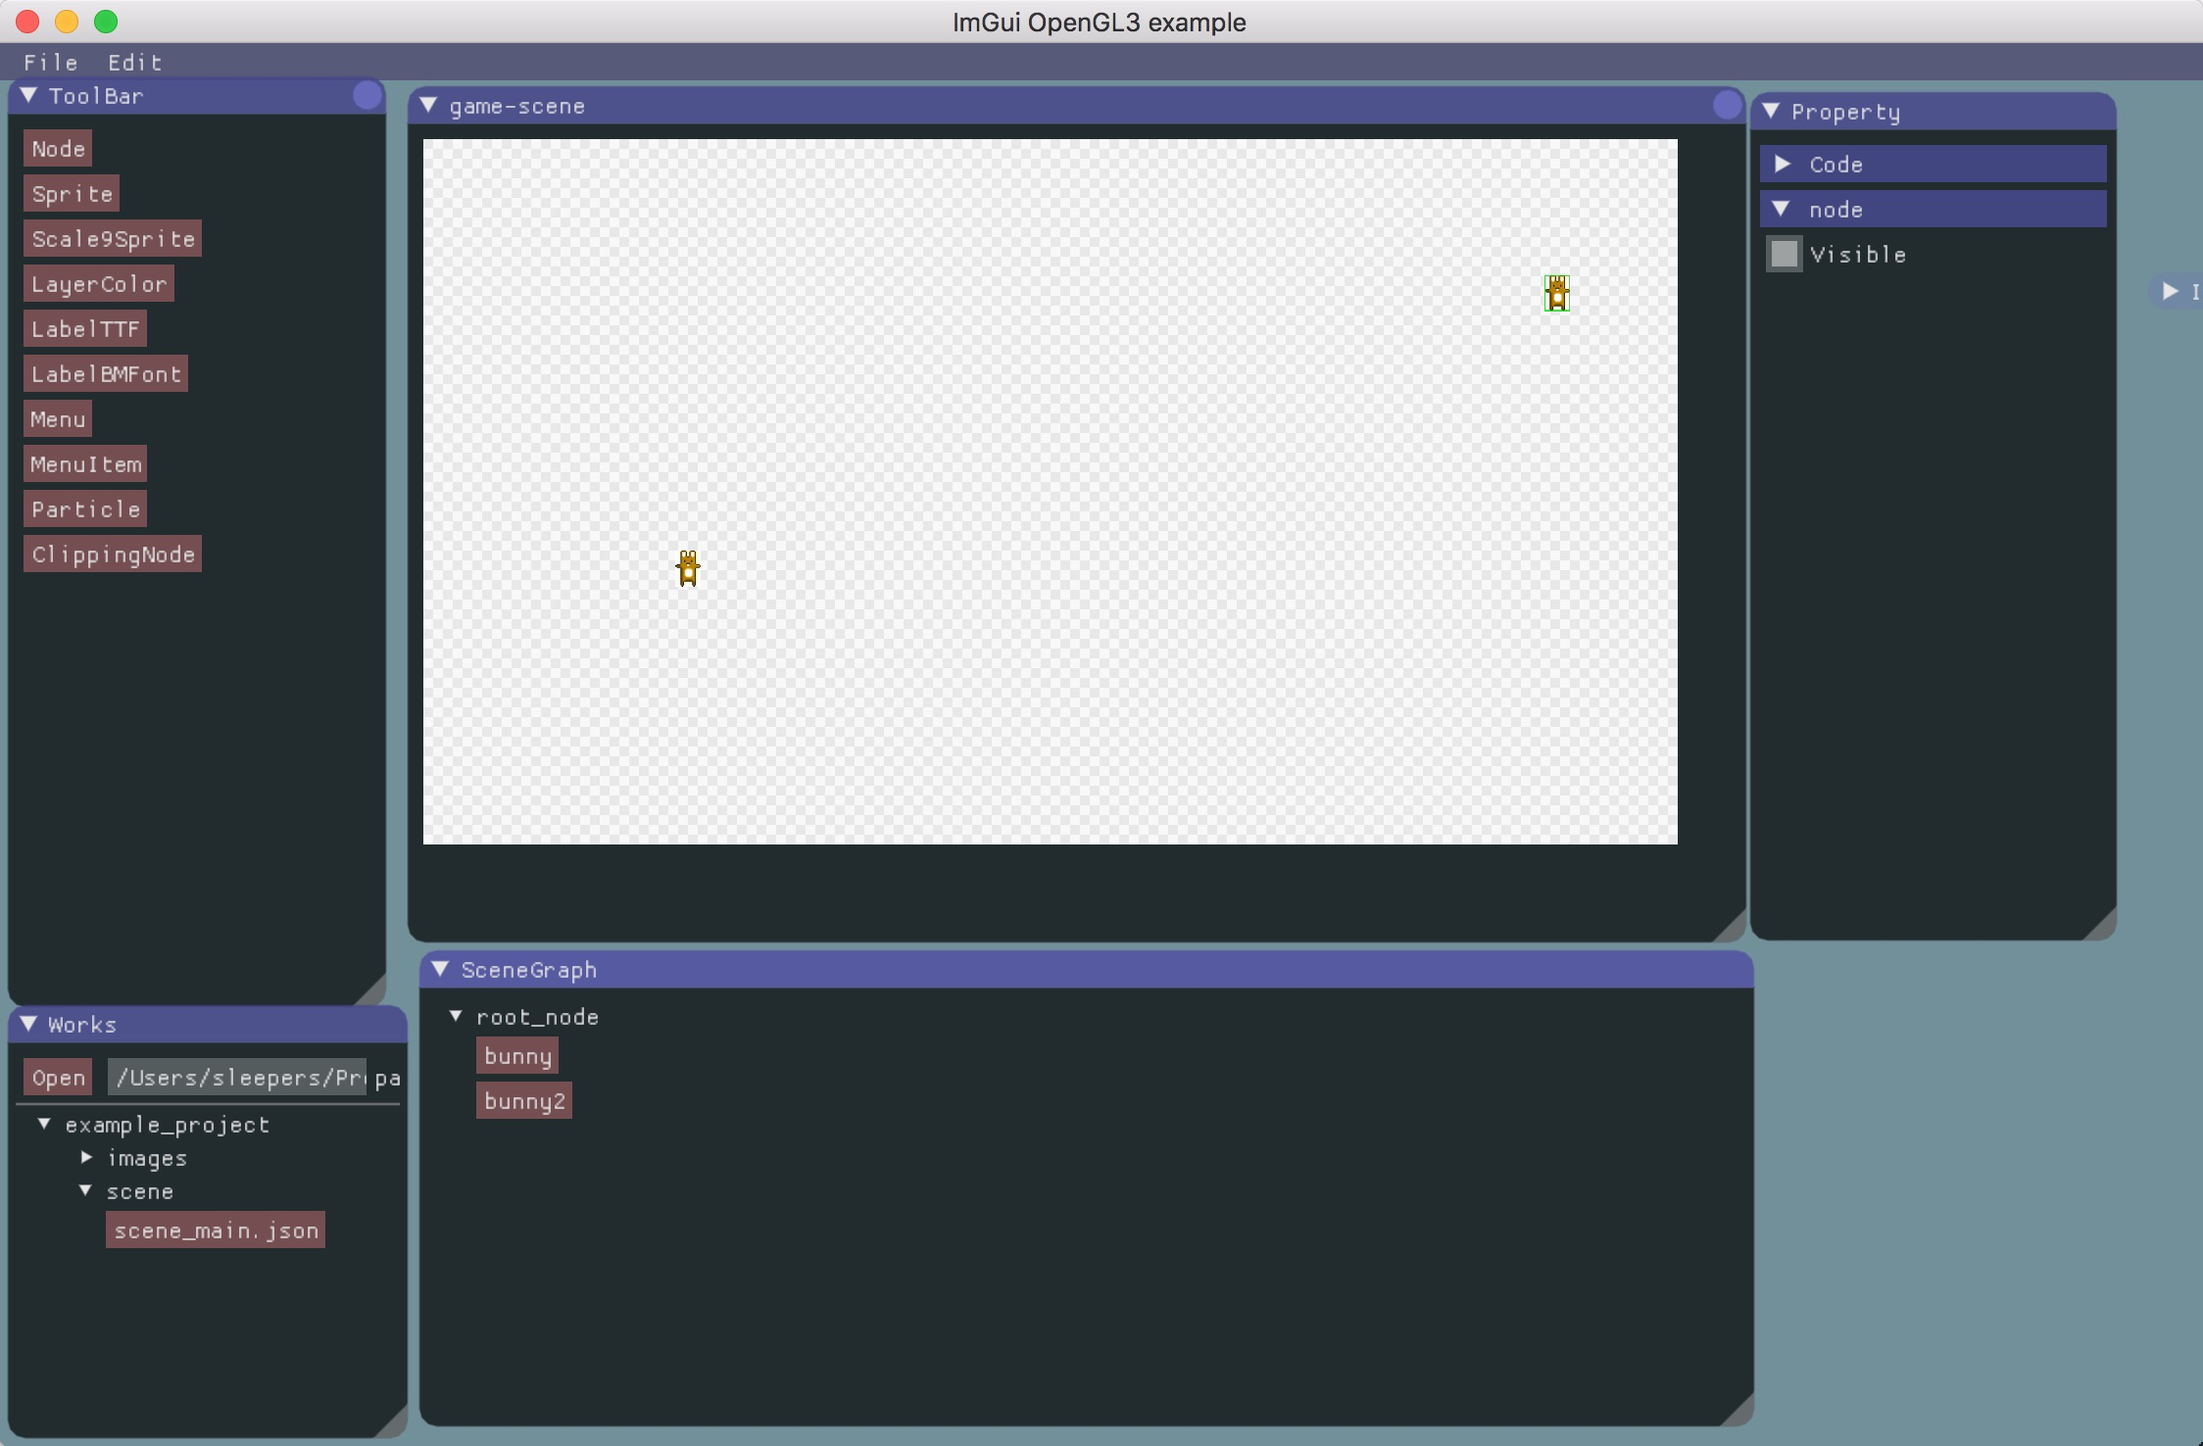
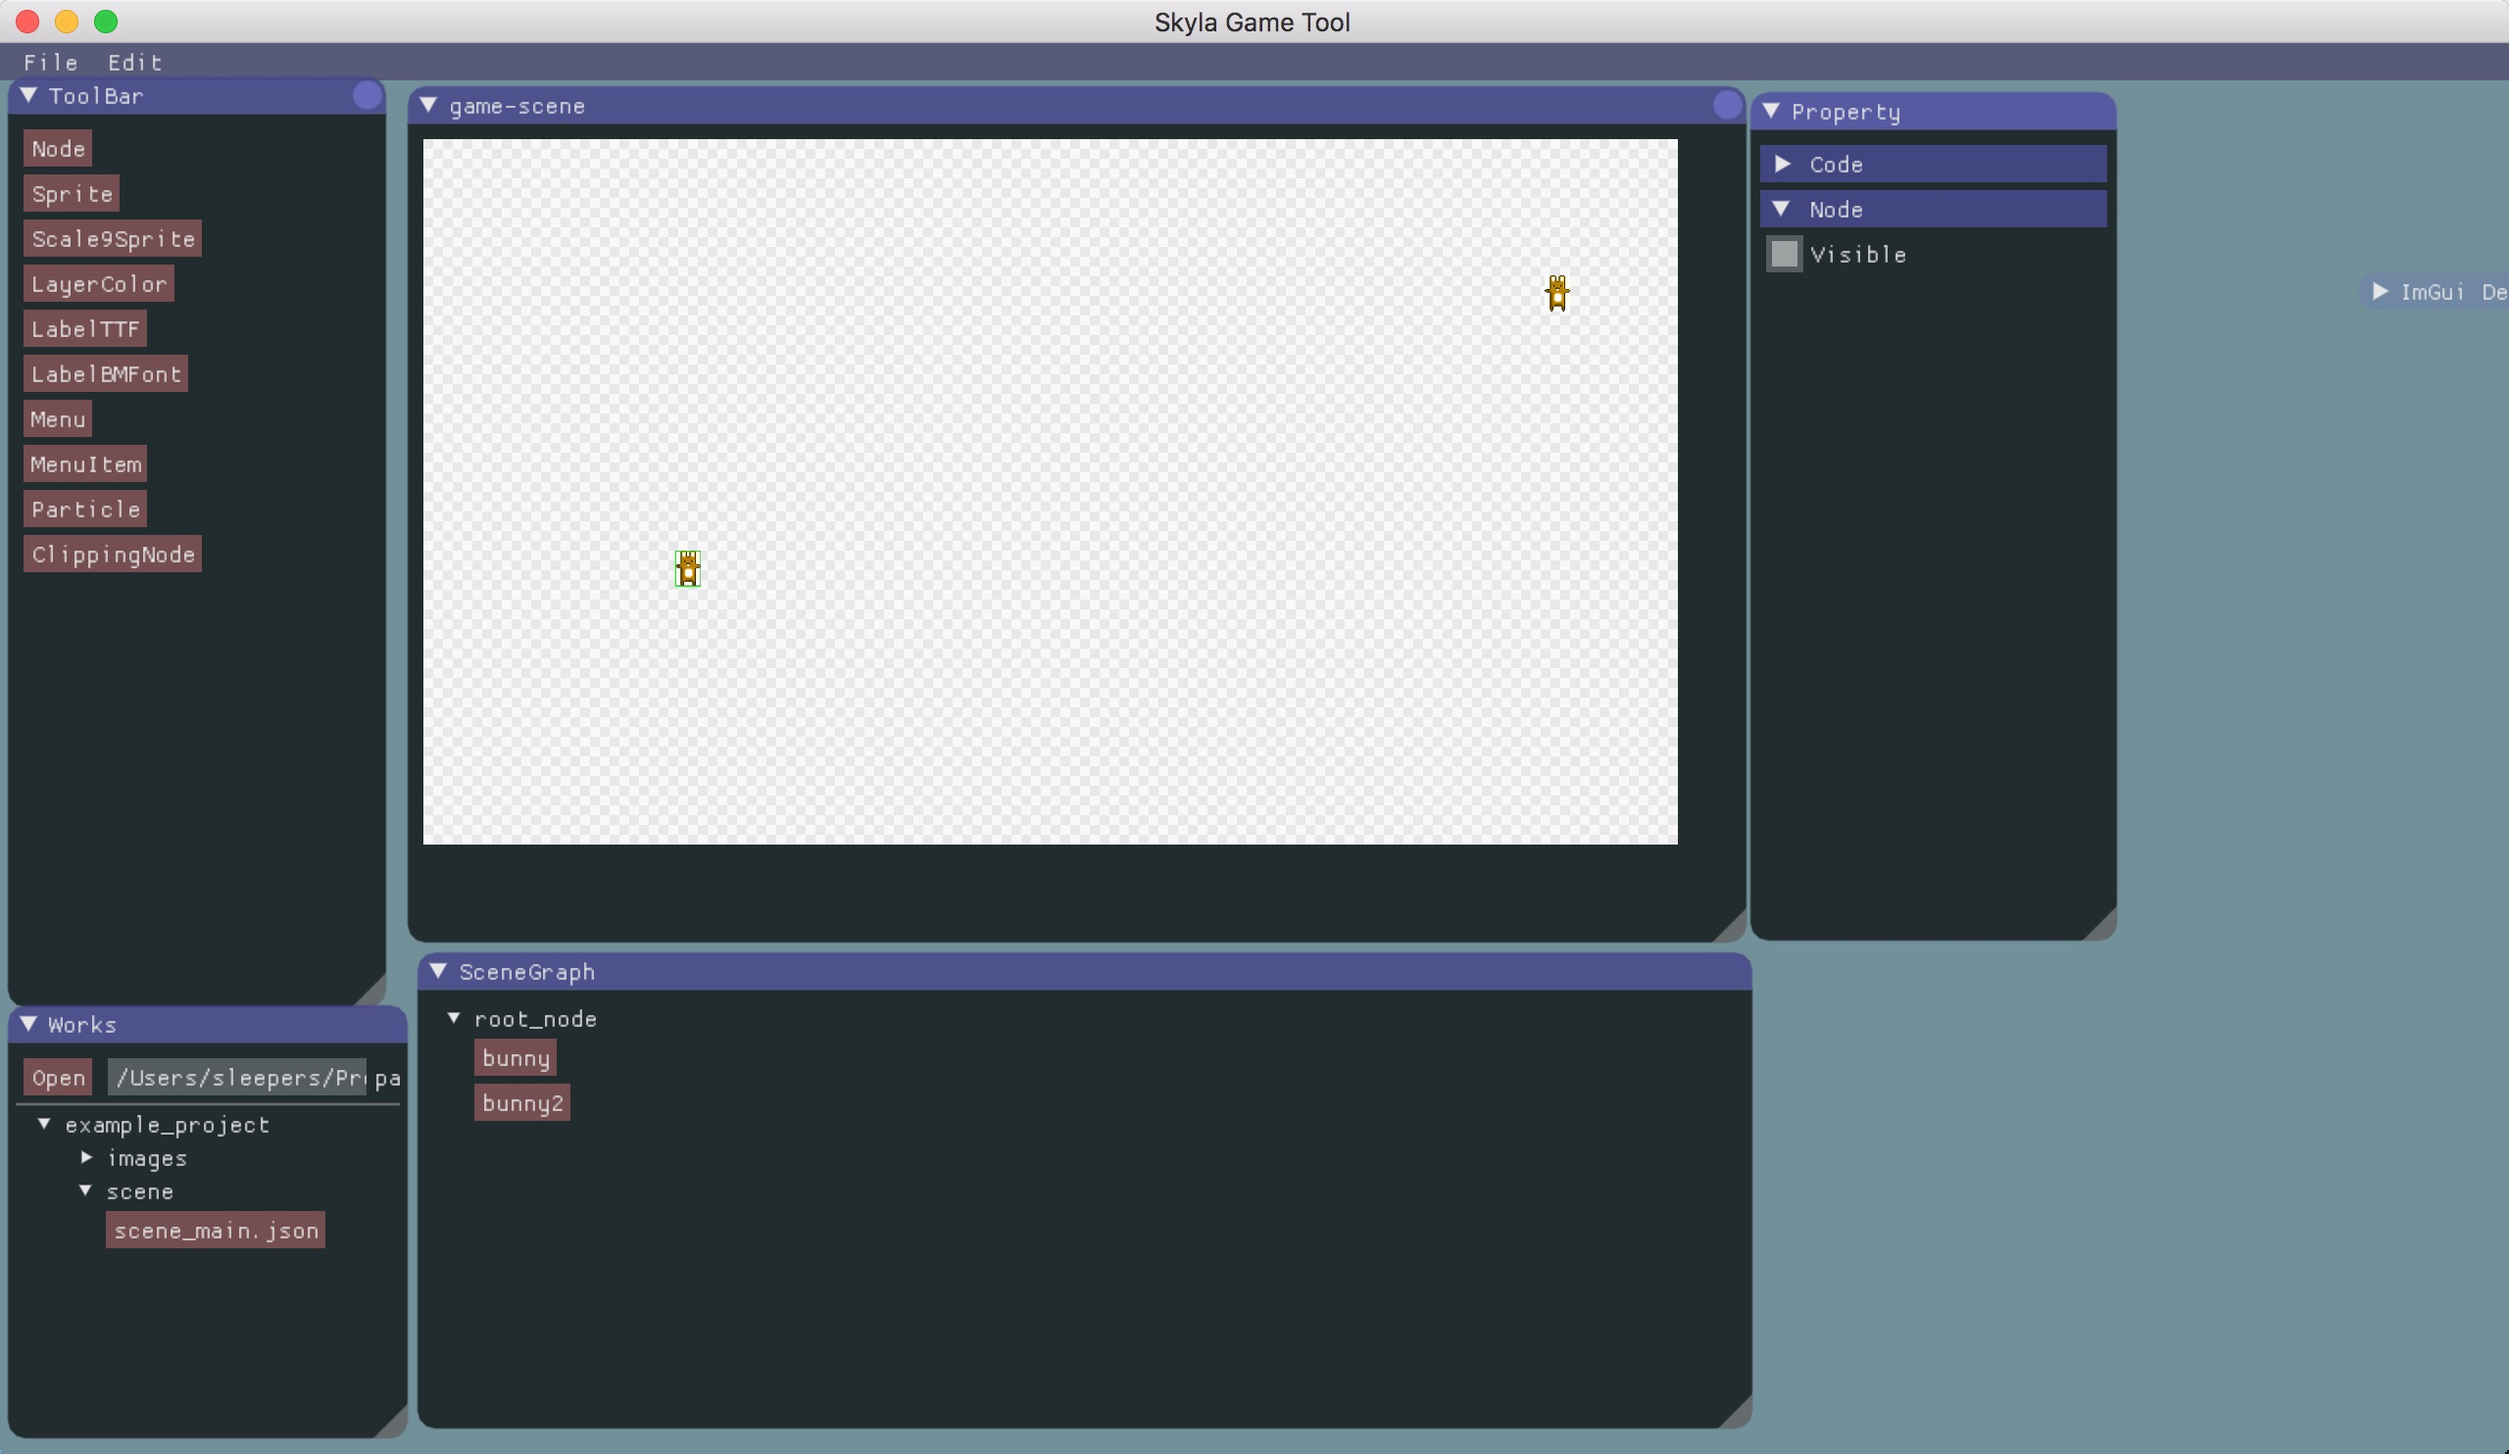
update screenshot

diff --git a/tools/editor/src/main.cpp b/tools/editor/src/main.cpp
@@ -130,7 +130,7 @@ int main(int, char**)
 
     int width = WINDOW_WIDTH;
     int height = WINDOW_HEIGHT;
-    GLFWwindow* window = glfwCreateWindow(width, height, "ImGui OpenGL3 example", NULL, NULL);
+    GLFWwindow* window = glfwCreateWindow(width, height, "Skyla Game Tool", NULL, NULL);
     glfwMakeContextCurrent(window);
     glfwSwapInterval(1); // Enable vsync
     gl3wInit();
